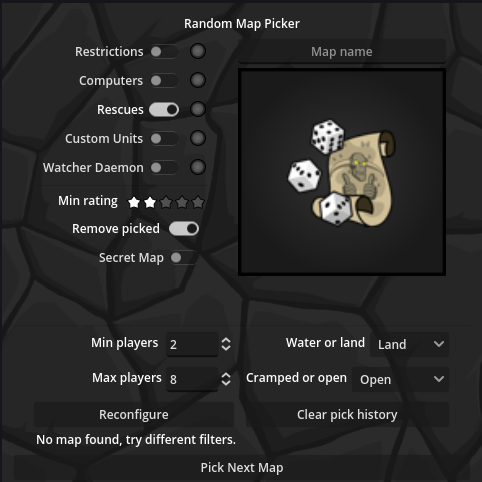
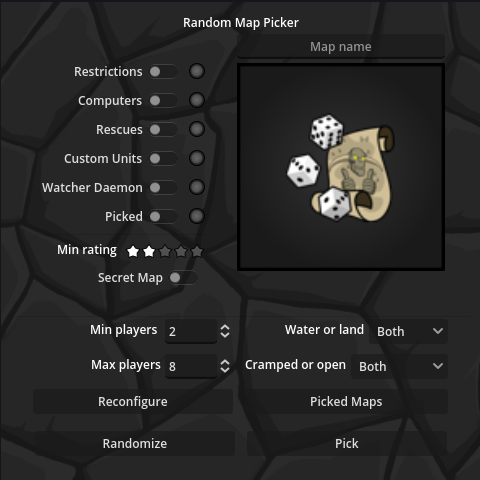
Added picked maps view and functionalities.

diff --git a/README.md b/README.md
@@ -21,6 +21,10 @@ When requesting a secret map with hidden informations:
 
 ![Secret map picked view](./images/previews/map_picker_panel_preview_3.png)
 
+When reviewing and managing picked maps:
+
+![Maps picked view](./images/previews/map_picker_panel_preview_4.png)
+
 *For any question regarding Warcraft II or this program head to the Trog's [Discord](https://discord.com/invite/ADt3TgFuV7)*
 
 Have a great day!
